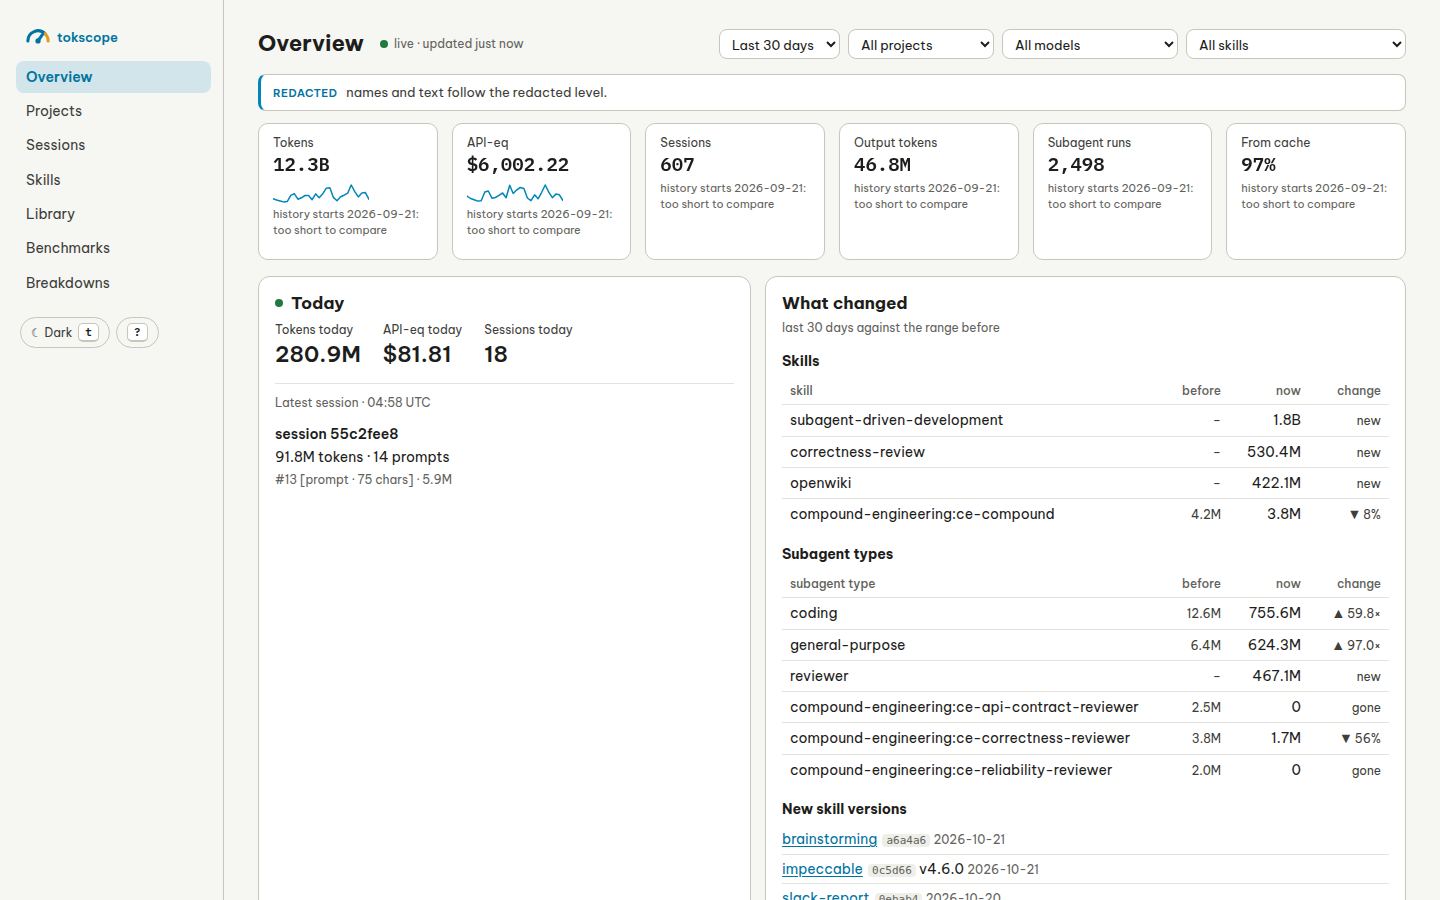
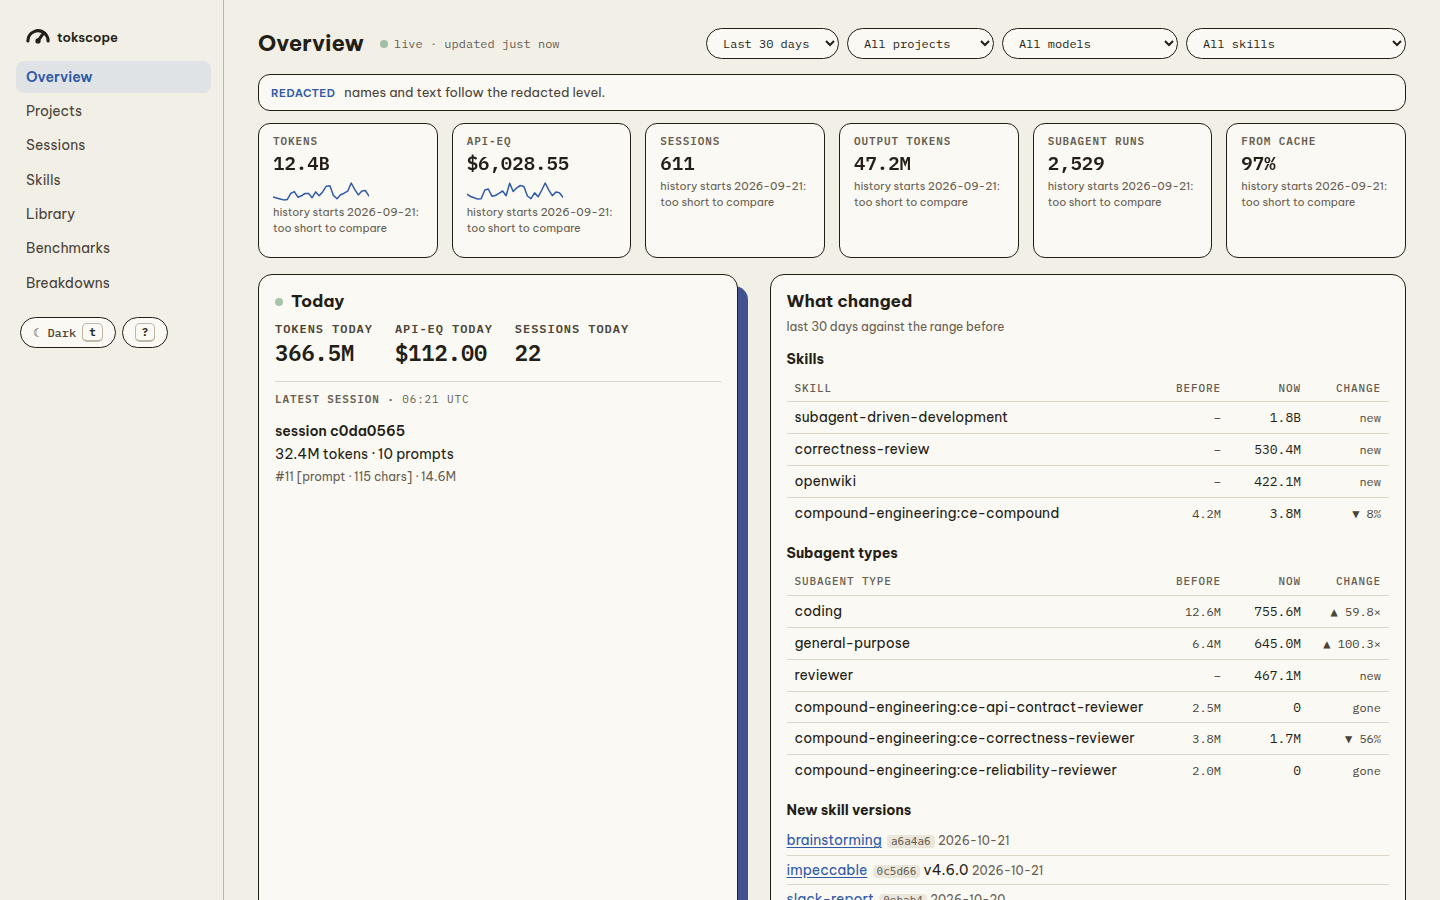
README: screenshots in the ink style
Retake the three README screenshots (Overview, Sessions, report) from
v1 with --privacy redacted, as before. The subagent colour is now
mustard, so the Sessions caption says yellow instead of amber.

diff --git a/STATUS.md b/STATUS.md
@@ -9,14 +9,14 @@ updated_by: claude   # claude | manual
 # claude-code-tokscope — Status
 
 ## Summary
-Ink redesign in progress on branch `v1`: brand mark (#4) merged, design-prompt fixes (#5) and the palette swap open as PRs to `v1`.
+Ink redesign is complete on branch `v1`: brand mark (#4), palette (#6), design-prompt fixes (#5), shapes (#7) and type (#9) are merged, and the README screenshots show the new look. `main` still has the old design.
 
 ## Next step
-Merge the README screenshots PR, then fix the CI billing block (GitHub says the account's payments failed) so the workflow can run.
+Owner review of `v1`, then merge `v1` into `main`. CI is still blocked by GitHub billing.
 
 ## Blockers
 - GitHub Actions jobs do not start: account payment or spending limit (see Settings > Billing).
 
 ## Recent
-- 2026-10-21: released 0.1.0, merged the worktree-folding fix (#1), setup.sh, repo About and topics, design update (borders, colours, weights, fonts); fixed the review findings (amber text, mono weights); README screenshots (redacted); docs/design-prompt.md: ink style adapted for tokscope; brand mark and favicon redrawn in ink (PR opened); #4 and #6 (ink palette) merged to v1; design-prompt fixes (#5) rebased onto them; ink shapes PR to v1; ink type PR to v1
+- 2026-10-21: released 0.1.0, merged the worktree-folding fix (#1), setup.sh, repo About and topics, design update (borders, colours, weights, fonts); fixed the review findings (amber text, mono weights); README screenshots (redacted); docs/design-prompt.md: ink style adapted for tokscope; brand mark and favicon redrawn in ink (PR opened); #4 and #6 (ink palette) merged to v1; design-prompt fixes (#5) rebased onto them; ink shapes PR to v1; ink type PR to v1; #7 shapes and #9 type merged to v1; README screenshots retaken in the ink style
 - 2026-10-19: created STATUS.md

diff --git a/README.md b/README.md
@@ -13,7 +13,7 @@ These come from `tokscope serve --privacy redacted` and `tokscope report --priva
 
 ![The dashboard Overview page](docs/screenshots/dashboard-overview.png)
 
-**Sessions** (`tokscope serve`): each session with its tokens, split between the main thread (blue) and subagents (amber). Open a row to see each prompt, or tick 2 to 4 rows to compare them.
+**Sessions** (`tokscope serve`): each session with its tokens, split between the main thread (blue) and subagents (yellow). Open a row to see each prompt, or tick 2 to 4 rows to compare them.
 
 ![The dashboard Sessions page](docs/screenshots/dashboard-sessions.png)
 
